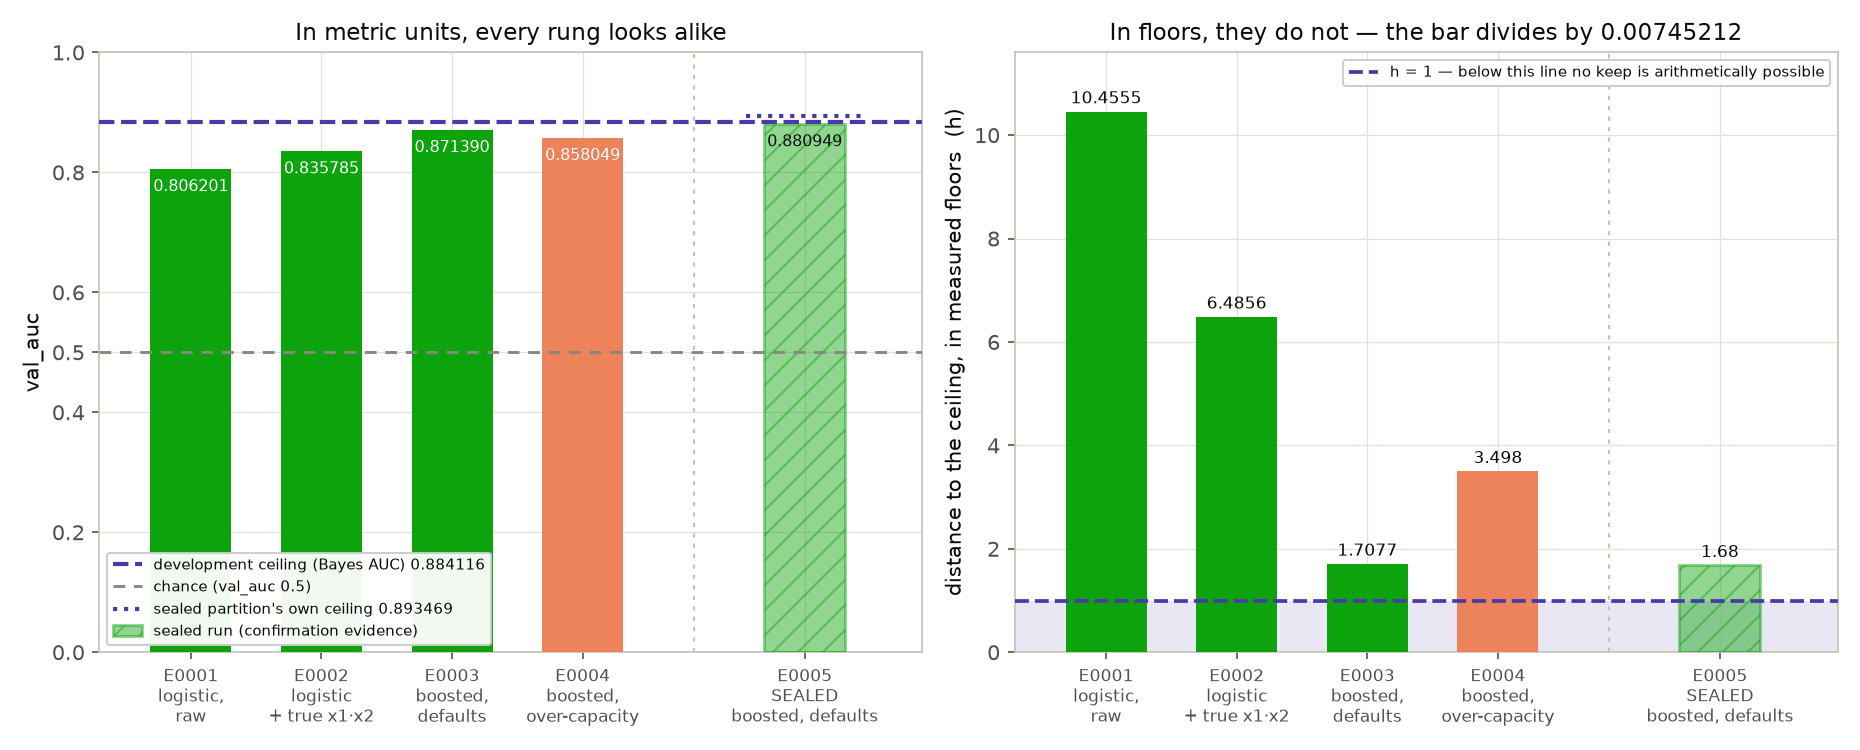
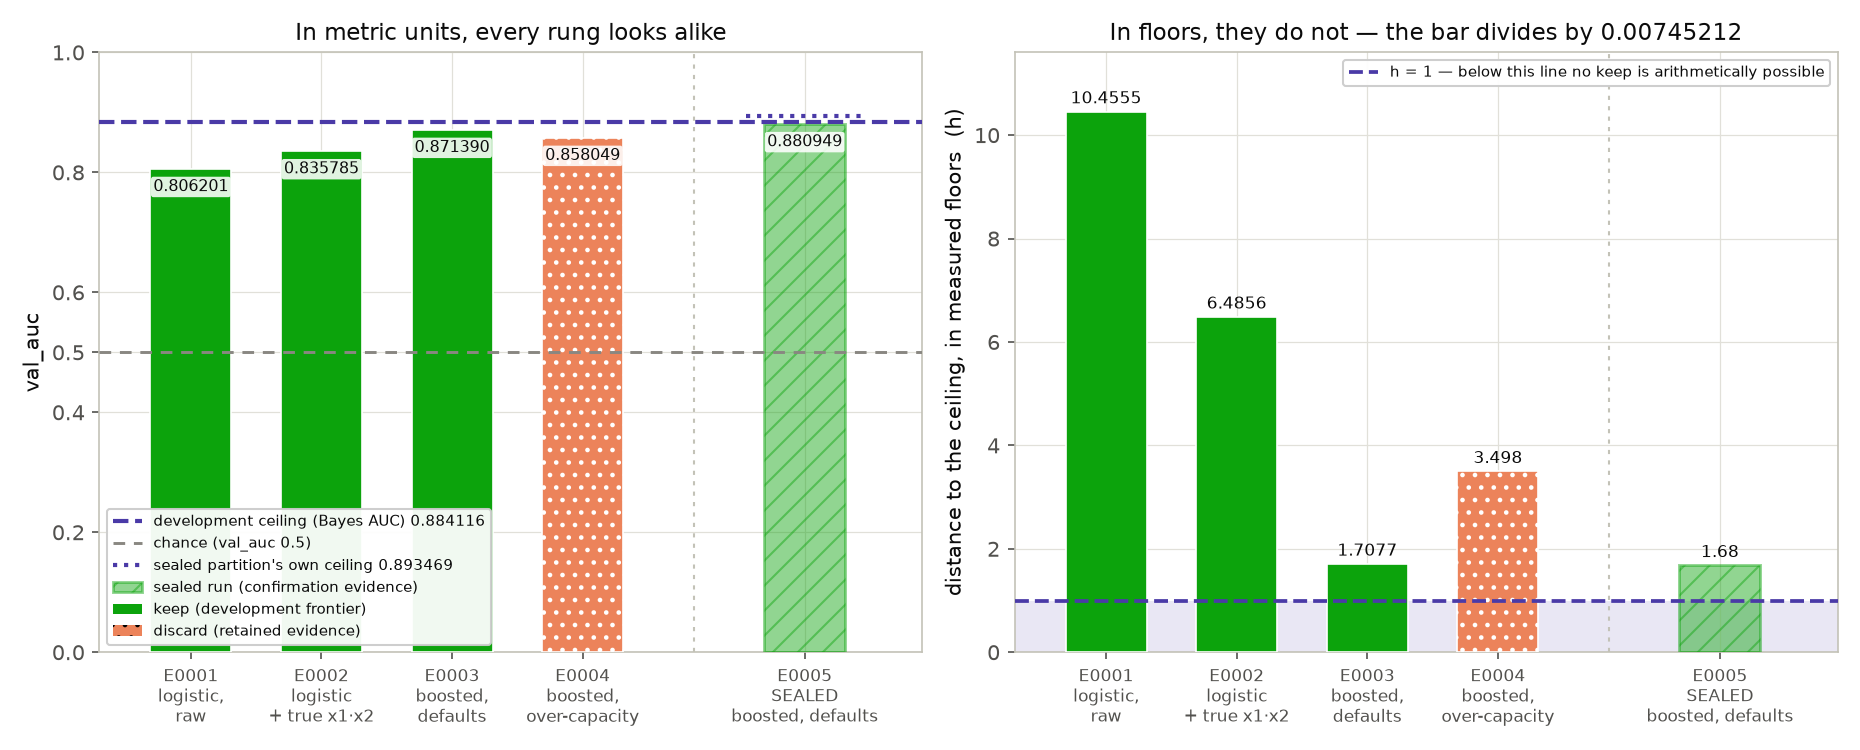
study 00: figure critique point 3 — every mark survives grayscale
headroom_bar.png: discards carry a dotted hatch as well as a hue, keep/discard get
their own legend entries, and the value labels sit on a white plate so they read
over a hatch and in grayscale.
known_truth_calibration.png: the two series are now circle/solid vs square/dashed,
not two colours.

All four critique points of tutorial-spec.md now pass on both study figures.
Byte-identical across two further renders.

Claude-Session: https://claude.ai/code/session_016HefKjsAszSh9M5FJ8Zw4g

diff --git a/studies/00-known-truth-quickstart/figures/make_figures.py b/studies/00-known-truth-quickstart/figures/make_figures.py
@@ -183,6 +183,9 @@ def figure_headroom(
 
     labels = [label for _e, _r, label in LADDER]
     colors = [KEEP if results[e]["status"] == "keep" else DISCARD for e, _r, _l in LADDER]
+    # Figure-critique point 3: every mark must survive grayscale, so a discard is
+    # a hatch as well as a hue.
+    hatches = [None if results[e]["status"] == "keep" else ".." for e, _r, _l in LADDER]
     x = np.arange(len(LADDER), dtype=float)
     ticks = list(x) + [SEALED_X]
     tick_labels = labels + ["E0005\nSEALED\nboosted, defaults"]
@@ -211,18 +214,27 @@ def figure_headroom(
                  label=f"development ceiling (Bayes AUC) {ideal:g}")
     left.axhline(0.5, color=MUTED, linewidth=1.4, linestyle=(0, (4, 3)), zorder=4,
                  label="chance (val_auc 0.5)")
-    left.bar(x, scores, width=0.62, color=colors, edgecolor="none", zorder=3)
+    bars = left.bar(x, scores, width=0.62, color=colors, edgecolor="#ffffff", linewidth=0.8, zorder=3)
+    for patch, hatch in zip(bars, hatches, strict=True):
+        if hatch:
+            patch.set_hatch(hatch)
     # Labels go INSIDE the bars: above them they collide with the ceiling and
     # chance rules, which on a zero-based axis both cross the bar tops.
+    # A plain-ink label on a white plate: legible over a solid bar, over a hatched
+    # one, and in grayscale — which white-on-hatch is not.
+    plate = {"boxstyle": "round,pad=0.15", "fc": "#ffffff", "ec": "none", "alpha": 0.88}
     for xi, value in zip(x, scores, strict=True):
         left.annotate(f"{value:.6f}", (xi, value), textcoords="offset points", xytext=(0, -5),
-                      ha="center", va="top", fontsize=7.5, color="#ffffff", zorder=6)
+                      ha="center", va="top", fontsize=7.5, color=INK, zorder=6, bbox=plate)
     left.hlines(sealed_ideal, SEALED_X - 0.45, SEALED_X + 0.45, color=IDEAL, linewidth=2,
                 linestyle=":", zorder=4, label=f"sealed partition's own ceiling {sealed_ideal:g}")
     left.bar([SEALED_X], [sealed_value], width=0.62, color=KEEP, alpha=0.45, edgecolor=KEEP,
              linewidth=1.4, zorder=3, hatch="//", label="sealed run (confirmation evidence)")
     left.annotate(f"{sealed_value:.6f}", (SEALED_X, sealed_value), textcoords="offset points",
-                  xytext=(0, -5), ha="center", va="top", fontsize=7.5, color=INK, zorder=6)
+                  xytext=(0, -5), ha="center", va="top", fontsize=7.5, color=INK, zorder=6,
+                  bbox=plate)
+    left.bar([np.nan], [np.nan], color=KEEP, label="keep (development frontier)")
+    left.bar([np.nan], [np.nan], color=DISCARD, hatch="..", label="discard (retained evidence)")
     left.set_ylim(0, 1.0)
     left.set_yticks([0.0, 0.2, 0.4, 0.5, 0.6, 0.8, 1.0])
     left.set_ylabel("val_auc")
@@ -233,7 +245,11 @@ def figure_headroom(
     right.axhspan(0, 1, color=IDEAL, alpha=0.12, linewidth=0, zorder=0)
     right.axhline(1.0, color=IDEAL, linewidth=1.8, linestyle="--", zorder=4,
                   label="h = 1 — below this line no keep is arithmetically possible")
-    right.bar(x, gaps, width=0.62, color=colors, edgecolor="none", zorder=3)
+    right_bars = right.bar(x, gaps, width=0.62, color=colors, edgecolor="#ffffff",
+                           linewidth=0.8, zorder=3)
+    for patch, hatch in zip(right_bars, hatches, strict=True):
+        if hatch:
+            patch.set_hatch(hatch)
     for xi, value in zip(x, gaps, strict=True):
         right.annotate(f"{value:g}", (xi, value), textcoords="offset points", xytext=(0, 4),
                        ha="center", fontsize=8, color=INK)
@@ -267,7 +283,10 @@ def figure_calibration(
         _fail("the recomputed development Bayes AUC differs from the one E0003 printed")
 
     series = []
-    for experiment, recipe, color in (("E0001", "logreg_raw", ANCHOR), ("E0003", "hgbt_default", BOOSTED)):
+    for experiment, recipe, color, marker, dashes in (
+        ("E0001", "logreg_raw", ANCHOR, "o", (0, ())),
+        ("E0003", "hgbt_default", BOOSTED, "s", (0, (5, 2))),
+    ):
         model, transform = train.fit_recipe(recipe, X_train, y_train)
         proba = np.asarray(model.predict_proba(transform(X_dev)))[:, 1]
         # Cross-check 5: refitting the recipe reproduces the ledger's own number.
@@ -275,7 +294,8 @@ def figure_calibration(
         recorded = float(results[experiment]["primary_metric"])
         if not _close(observed, recorded, tol=5e-7):
             _fail(f"{experiment}: refit scores {observed}, the ledger says {recorded}")
-        series.append((experiment, recipe, color, proba, float(brier_score_loss(y_dev, proba))))
+        series.append((experiment, recipe, color, marker, dashes, proba,
+                       float(brier_score_loss(y_dev, proba))))
 
     bayes_brier = float(brier_score_loss(y_dev, p_true))
     if not _close(bayes_brier, float(truth["partitions"]["development"]["bayes_brier"]), tol=5e-7):
@@ -283,16 +303,17 @@ def figure_calibration(
 
     fig, (left, right) = plt.subplots(1, 2, figsize=(11, 4.6))
 
-    lo, hi = 0.0, max(float(p_true.max()), *(float(p.max()) for _e, _r, _c, p, _b in series))
+    lo, hi = 0.0, max(float(p_true.max()), *(float(s[5].max()) for s in series))
     hi = math.ceil(hi * 20) / 20
     left.plot([lo, hi], [lo, hi], color=MUTED, linewidth=1.4, linestyle="--", zorder=2,
               label="perfect: predicted = true")
-    for experiment, recipe, color, proba, brier in series:
+    for experiment, recipe, color, marker, dashes, proba, brier in series:
         order = np.argsort(proba, kind="stable")
         bins = np.array_split(order, 20)
         xs = [float(proba[b].mean()) for b in bins if len(b)]
         ys = [float(p_true[b].mean()) for b in bins if len(b)]
-        left.plot(xs, ys, marker="o", markersize=5, linewidth=1.6, color=color, zorder=3,
+        left.plot(xs, ys, marker=marker, markersize=5, linewidth=1.6, color=color,
+                  linestyle=dashes, zorder=3,
                   label=f"{recipe} ({experiment}), Brier {brier:.6f}")
     left.set_xlim(lo, hi)
     left.set_ylim(lo, hi)
@@ -302,13 +323,13 @@ def figure_calibration(
     left.legend(fontsize=7, loc="upper left", framealpha=0.95)
 
     # Right panel: the residual the ranking metric cannot see.
-    for experiment, recipe, color, proba, _brier in series:
+    for experiment, recipe, color, marker, dashes, proba, _brier in series:
         order = np.argsort(p_true, kind="stable")
         bins = np.array_split(order, 25)
         xs = [float(p_true[b].mean()) for b in bins if len(b)]
         ys = [float((proba[b] - p_true[b]).mean()) for b in bins if len(b)]
-        right.plot(xs, ys, marker="o", markersize=4, linewidth=1.5, color=color, zorder=3,
-                   label=f"{recipe} ({experiment})")
+        right.plot(xs, ys, marker=marker, markersize=4, linewidth=1.5, color=color,
+                   linestyle=dashes, zorder=3, label=f"{recipe} ({experiment})")
     right.axhline(0.0, color=MUTED, linewidth=1.4, linestyle="--", zorder=2)
     right.set_xlabel("TRUE probability, 25 equal-count bins")
     right.set_ylabel("mean (predicted − true)")
